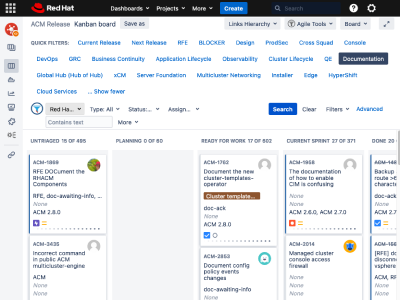
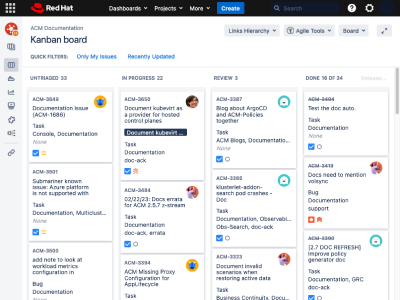
Update pic

diff --git a/_projects/03_project.md b/_projects/03_project.md
@@ -1,9 +1,9 @@
 ---
 layout: page
 title: Jira
-description: Your main workspace on Jira where you can find an overview of your assigned issues.
+description: Documentation kanban board on Jira where you can find an overview of documentation issues.
 img: assets/img/03-jira.png
-redirect: https://issues.redhat.com/secure/RapidBoard.jspa?rapidView=6387&quickFilter=101591
+redirect: https://issues.redhat.com/secure/RapidBoard.jspa?rapidView=16781&projectKey=ACM
 importance: 3
 category: work
 ---
